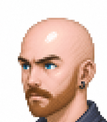
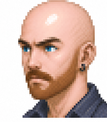
Anchor each look frame to its own crown
The top six frames sat low with their shoulders cut off. The cause is in
the source art: the bottom row is drawn about 23px higher in its cells
than the other two (crown at y=6..11 against y=27..29). The shared crop
anchored to the union of all nine, so the top six inherited the bottom
row's higher start -- a band of dead white above the head, and the same
amount lost off the shoulders below.

Vertical placement is now per-frame, anchored to that frame's own crown,
so the top of the head lands on the top of the picture in all nine. The
crown is the one landmark stable across every pose -- he is bald, so it is
a clean arc in each -- and the vertical drawing offset carries no pose
information worth preserving.

The crop *size* and the horizontal window stay shared. Those are what stop
the head jumping and rescaling as it turns, and the horizontal window is
what carries the sideways turn in the first place.

Nothing is clipped now. What is left is a white strip below the shoulders
that varies 0..9px across the nine, where before the mismatch was 23px and
took the shoulders with it. Closing it entirely means cropping to the
shortest pose, which costs about 5px more off the ear on the outermost
turns -- not worth it.

Claude-Session: https://claude.ai/code/session_01CjnpaYAr8vizShw4o1xh1Z

diff --git a/tools/slice-look-frames.py b/tools/slice-look-frames.py
@@ -20,11 +20,19 @@ The sheet is read in the same order the effect uses:
 
 Two things here are not obvious, and both were bugs first:
 
-* **One crop box, shared by all nine frames** -- the union of their ink
-  bounding boxes, grown to the portrait's 107:122 aspect rather than squashed
-  to it. Cropping each pose to its own content instead rescales and recentres
-  it, so the head jumps in size and position as it looks about, which ruins
-  the effect it is there to create.
+* **One crop *size*, shared by all nine frames**, and one shared horizontal
+  window -- the union of their ink bounding boxes, grown to the portrait's
+  107:122 aspect rather than squashed to it. Size and horizontal placement have
+  to be shared or the head jumps and rescales as it looks about, and the
+  sideways turn is exactly what the horizontal window is carrying.
+
+* **Vertically each frame is anchored to its own crown**, not to the shared
+  union. The artist drew the bottom row about 23px higher in its cells than the
+  other two, so a shared vertical anchor gave the top six frames a band of dead
+  white above the head and cut the same amount off their shoulders. The crown
+  is the one landmark that is stable across all nine poses -- he is bald, so it
+  is a clean arc in every frame -- and the vertical drawing offset carries no
+  pose information worth keeping.
 
 * **Composite onto white before resizing.** The shared box is taller than a
   cell, so on the top and bottom rows it overruns the artwork. PIL fills an
@@ -64,7 +72,7 @@ def main(sheet_path: str, zoom: float) -> int:
         return 1
     cw, ch = sw // 3, sh // 3
 
-    origins, box = {}, None
+    origins, crowns = {}, {}
     left = top = 10 ** 9
     right = bottom = -1
 
@@ -79,37 +87,31 @@ def main(sheet_path: str, zoom: float) -> int:
                 return 1
             left, right = min(left, xs.min()), max(right, xs.max())
             top, bottom = min(top, ys.min()), max(bottom, ys.max())
+            crowns[name] = int(ys.min())
 
     w, h = right - left + 1, bottom - top + 1
 
-    # Close in on the heads. Anchored to the top of the union and the horizontal
-    # centre: the crown stays where it is and the shoulders run off the bottom,
-    # which is how the original portrait was framed (its ink reaches all four
-    # edges). Shrinking about the centre instead would leave a gap above the
-    # head and cut the chin.
-    if zoom != 1.0:
-        centre_x = (left + right) / 2
-        w, h = w * zoom, h * zoom
-        left, right = centre_x - w / 2, centre_x + w / 2
-        bottom = top + h
-
-    if w / h > TW / TH:
-        pad = (round(w * TH / TW) - h) / 2
-        top, bottom = top - pad, bottom + pad
-    else:
-        pad = (round(h * TW / TH) - w) / 2
-        left, right = left - pad, right + pad
-    box = (round(left), round(top), round(right) + 1, round(bottom) + 1)
-    bw, bh = box[2] - box[0], box[3] - box[1]
-    print(f"cells {cw}x{ch}, shared crop {bw}x{bh} (aspect {bw/bh:.4f}, target {TW/TH:.4f})")
+    # Close in on the heads horizontally; the height then follows from the
+    # portrait's aspect rather than from the union, since the vertical placement
+    # is per-frame below.
+    centre_x = (left + right) / 2
+    bw = round((right - left + 1) * zoom)
+    bh = round(bw * TH / TW)
+    bx = round(centre_x - bw / 2)
+    print(f"cells {cw}x{ch}, crop {bw}x{bh} (aspect {bw/bh:.4f}, target {TW/TH:.4f}), "
+          f"crown offsets {min(crowns.values())}..{max(crowns.values())}")
 
     failures = 0
     for name, (ox, oy) in origins.items():
+        # Vertical origin is this frame's own crown, so the top of the head
+        # lands on the top of the picture in all nine.
+        by = crowns[name]
+
         frame = Image.new("RGB", (bw, bh), (255, 255, 255))
-        x0, y0 = max(0, ox + box[0]), max(0, oy + box[1])
-        x1, y1 = min(sw, ox + box[2]), min(sh, oy + box[3])
+        x0, y0 = max(0, ox + bx), max(0, oy + by)
+        x1, y1 = min(sw, ox + bx + bw), min(sh, oy + by + bh)
         if x1 > x0 and y1 > y0:
-            frame.paste(src.crop((x0, y0, x1, y1)), (x0 - (ox + box[0]), y0 - (oy + box[1])))
+            frame.paste(src.crop((x0, y0, x1, y1)), (x0 - (ox + bx), y0 - (oy + by)))
 
         out = out_dir / f"portrait--look-{name}.png"
         frame.resize((TW, TH), Image.LANCZOS).save(out, optimize=True)
